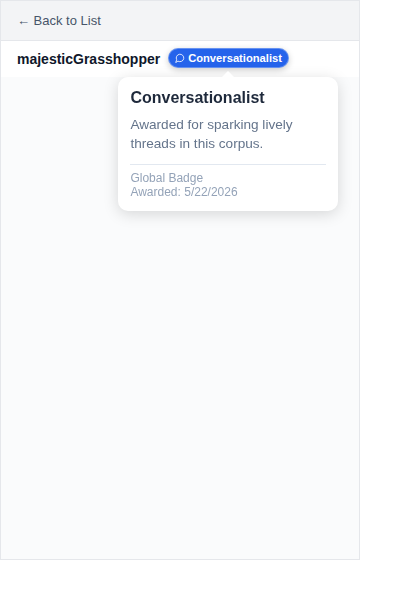
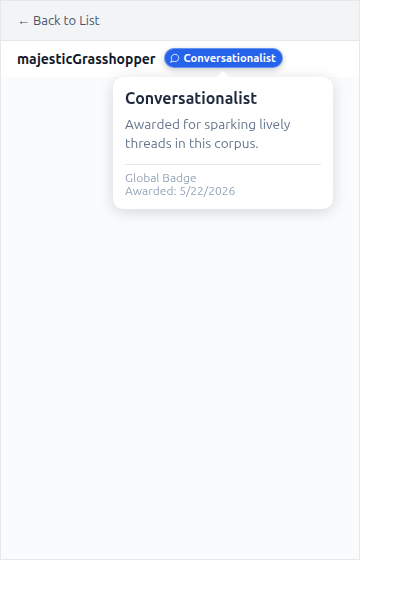
Address review feedback (#1790)
- MessageBadges tooltip: re-position on capture-phase scroll + resize
  while the tooltip is visible.  ``position: fixed`` doesn't follow
  the badge when an ancestor scroll container moves under it; without
  this listener the tooltip drifts to the wrong place when the
  sidebar scrolls while the cursor is held still over a badge
  (review item #1).
- Replace the ``["--arrow-offset" as any]`` style cast with a
  ``Record<string, string>`` spread so the any-baseline gate stays
  honest (was the new offender that pushed current=438 baseline=437).
- ThreadDetailSidebarLayout test: assert structurally that the
  tooltip is NOT a descendant of the clip-frame
  (``el.closest('[data-testid=clip-frame]') === null``).  The
  previous "nonzero width/height" assertion could pass even if the
  portal failed to escape the clip frame (review item: test).

Changed region(s): [[0.2786, 0.15, 0.7429, 0.36], [0.031, 0.06, 0.7119, 0.12], [0.0619, 0.03, 0.2476, 0.06]]

diff --git a/frontend/src/components/badges/MessageBadges.tsx b/frontend/src/components/badges/MessageBadges.tsx
@@ -173,32 +173,52 @@ function BadgeItem({
   // Recompute portal position whenever the tooltip becomes visible.
   // Uses fixed coords from the badge's bounding rect, then flips below
   // if there isn't enough room above (avoids clipping near the top of
-  // a scroll container).
+  // a scroll container).  ``position: fixed`` doesn't follow the badge
+  // when an ancestor scrolls, so we also re-run the math on any
+  // capture-phase scroll / resize while the tooltip is visible.
   useLayoutEffect(() => {
     if (!isHovered || !wrapperRef.current) {
       setTooltipPos(null);
       return;
     }
-    const rect = wrapperRef.current.getBoundingClientRect();
-    const TOOLTIP_HEIGHT_EST = 120; // generous upper bound for typical badge tooltips
-    const GAP = 8;
-    const VIEWPORT_PADDING = 8;
-    const placement: "top" | "bottom" =
-      rect.top - TOOLTIP_HEIGHT_EST - GAP < VIEWPORT_PADDING ? "bottom" : "top";
+    const computePosition = () => {
+      const node = wrapperRef.current;
+      if (!node) return;
+      const rect = node.getBoundingClientRect();
+      const TOOLTIP_HEIGHT_EST = 120; // generous upper bound for typical badge tooltips
+      const GAP = 8;
+      const VIEWPORT_PADDING = 8;
+      const placement: "top" | "bottom" =
+        rect.top - TOOLTIP_HEIGHT_EST - GAP < VIEWPORT_PADDING
+          ? "bottom"
+          : "top";
 
-    // Center horizontally on the badge, clamped to viewport.
-    const TOOLTIP_MAX_WIDTH = 220;
-    const centerX = rect.left + rect.width / 2;
-    let left = centerX - TOOLTIP_MAX_WIDTH / 2;
-    left = Math.max(
-      VIEWPORT_PADDING,
-      Math.min(left, window.innerWidth - TOOLTIP_MAX_WIDTH - VIEWPORT_PADDING)
-    );
-    const arrowOffset = centerX - left; // px from tooltip's left edge to arrow center
+      // Center horizontally on the badge, clamped to viewport.
+      const TOOLTIP_MAX_WIDTH = 220;
+      const centerX = rect.left + rect.width / 2;
+      let left = centerX - TOOLTIP_MAX_WIDTH / 2;
+      left = Math.max(
+        VIEWPORT_PADDING,
+        Math.min(left, window.innerWidth - TOOLTIP_MAX_WIDTH - VIEWPORT_PADDING)
+      );
+      const arrowOffset = centerX - left; // px from tooltip's left edge to arrow center
 
-    const top = placement === "top" ? rect.top - GAP : rect.bottom + GAP;
+      const top = placement === "top" ? rect.top - GAP : rect.bottom + GAP;
 
-    setTooltipPos({ top, left, placement, arrowOffset });
+      setTooltipPos({ top, left, placement, arrowOffset });
+    };
+
+    computePosition();
+    // Re-position on ANY scroll (capture phase so ancestor scroll
+    // containers, not just window, trigger it).  Without this the
+    // tooltip drifts when the sidebar scrolls while the user holds the
+    // cursor still over a badge.
+    window.addEventListener("scroll", computePosition, true);
+    window.addEventListener("resize", computePosition);
+    return () => {
+      window.removeEventListener("scroll", computePosition, true);
+      window.removeEventListener("resize", computePosition);
+    };
   }, [isHovered]);
 
   // Dynamically get the icon component from lucide-react
@@ -228,8 +248,13 @@ function BadgeItem({
         left: tooltipPos.left,
         // Anchor the arrow under the badge center even when the tooltip
         // is clamped to the viewport edge (consumed by ::after in
-        // TooltipPopup via var(--arrow-offset)).
-        ["--arrow-offset" as any]: `${tooltipPos.arrowOffset}px`,
+        // TooltipPopup via var(--arrow-offset)).  React.CSSProperties
+        // doesn't model CSS custom properties, so cast through
+        // ``Record<string, string>`` rather than ``any`` to keep the
+        // any-baseline gate honest.
+        ...({
+          "--arrow-offset": `${tooltipPos.arrowOffset}px`,
+        } as Record<string, string>),
       }}
     >
       <BadgeContent>

diff --git a/frontend/tests/threads/ThreadDetailSidebarLayout.ct.tsx b/frontend/tests/threads/ThreadDetailSidebarLayout.ct.tsx
@@ -174,17 +174,21 @@ test.describe("DocumentDiscussionsContent — sidebar thread detail", () => {
     });
     await expect(tooltipText).toBeVisible({ timeout: 3_000 });
 
-    // The tooltip should live outside the clipping frame: its top-left
-    // box must extend beyond the harness's bounding rect, OR sit on
-    // document.body (not inside the frame's subtree). We assert the
-    // simpler invariant: the tooltip text is rendered and fully visible
-    // even though the frame above it has overflow: hidden.
-    const frame = page.locator("[data-testid='clip-frame']");
-    const frameBox = await frame.boundingBox();
+    // The tooltip must live OUTSIDE the clipping frame's DOM subtree —
+    // a nonzero bounding box alone could pass even if the tooltip were
+    // still inside the clip frame and merely positioned somewhere in
+    // its scroll buffer.  Assert structurally: the tooltip's nearest
+    // ancestor ``[data-testid='clip-frame']`` is ``null``.
+    const escapedClip = await tooltipText.evaluate(
+      (el) => el.closest("[data-testid='clip-frame']") === null
+    );
+    expect(escapedClip).toBe(true);
+
+    // Also sanity-check the tooltip rendered with nonzero size (catches
+    // a regression where the portal mounts but the popup is collapsed).
     const tooltipBox = await tooltipText.boundingBox();
-    expect(frameBox && tooltipBox).toBeTruthy();
-    if (frameBox && tooltipBox) {
-      // Tooltip is not clipped: it has nonzero width and height.
+    expect(tooltipBox).toBeTruthy();
+    if (tooltipBox) {
       expect(tooltipBox.width).toBeGreaterThan(0);
       expect(tooltipBox.height).toBeGreaterThan(0);
     }
